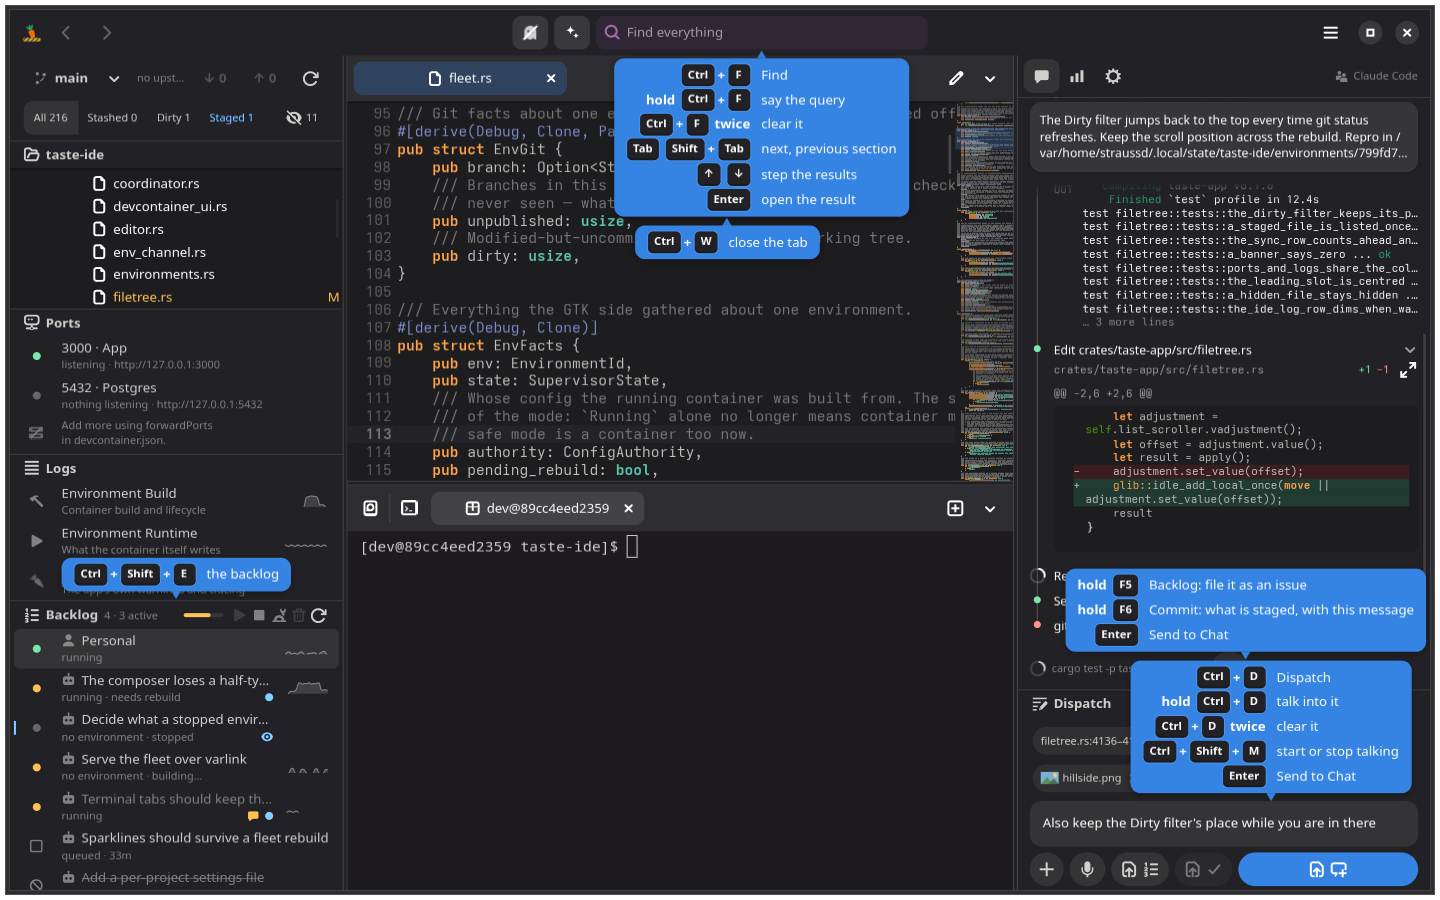
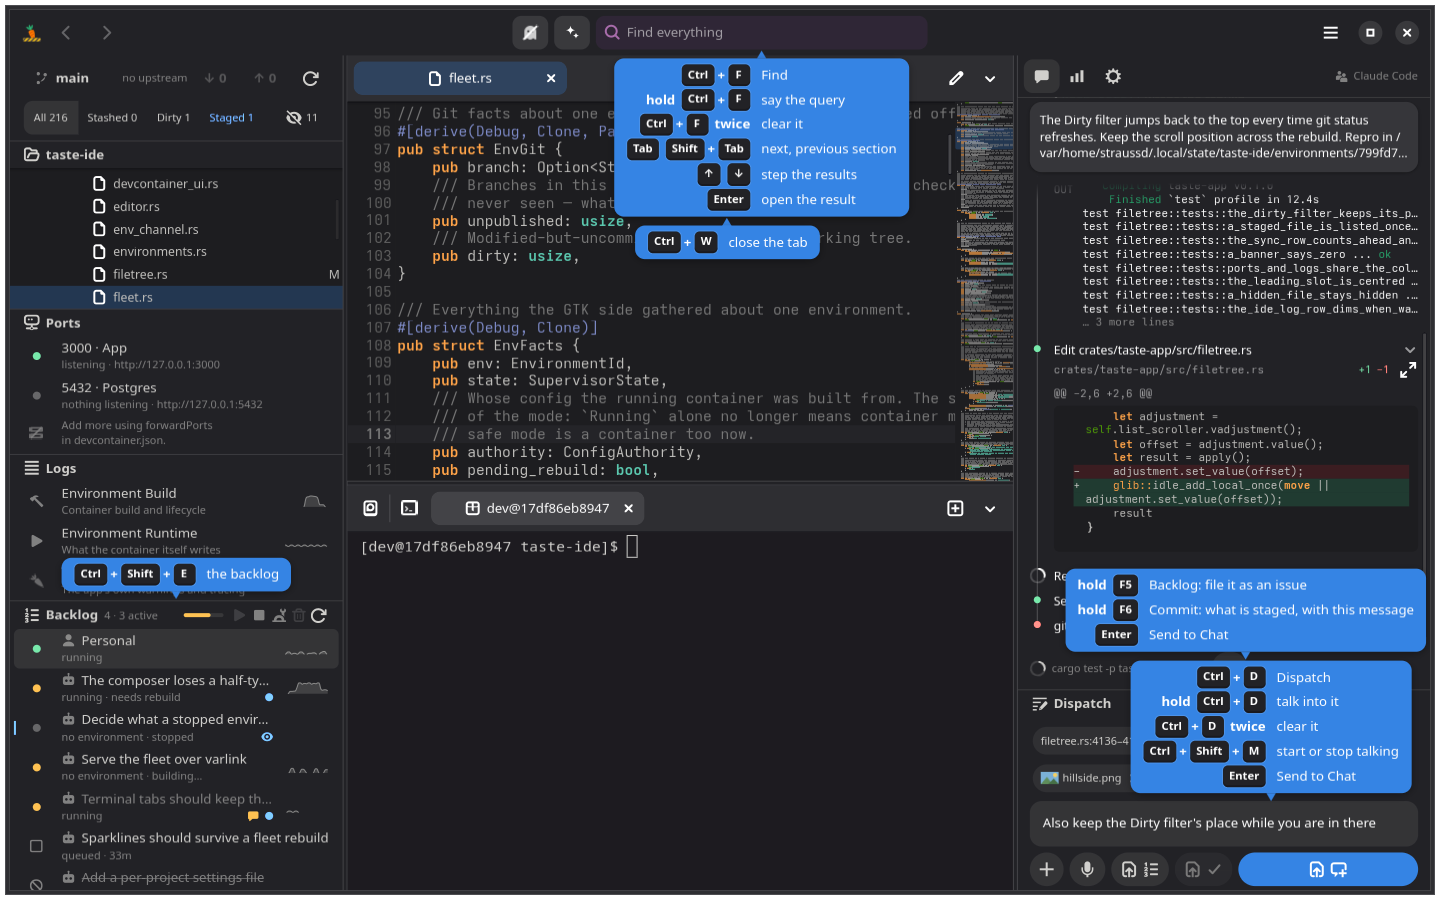
The files listing is smaller, softer, and airier at the same density
David, 2026-09-08: "the files listing should use a smaller typeface,
slightly lower contrast (maybe same color as normal characters in the
editor panel), and wider leading. The final density should be
approximately what it is now, just airier."

So the names are set at 0.92em in the colour the editor draws a plain
identifier in — `#c0bfbc`, measured off the frame, which the terminal
palette already carries as its base white. That is 8.6:1 against the
tree's ground where the panels' own foreground is 10.2:1: a step softer,
because a file listing is a long column of names read by shape and at full
strength it shouts beside the editor it names.

The height the smaller face gives back is spent on leading rather than
pocketed. Measured: 1px either side puts the row pitch back at the 23px it
was, so the column is exactly as long as before with smaller glyphs in
more air. 2px either side made it 25 and the whole listing longer, which
is not "approximately what it is now".

Dark-only, like the panels' own foreground: the light scheme's is already
soft, and the editor's plain text there is a near-black this would muddy.

And the branch button loses its dropdown arrow (David: "remove the
dropdown indicator on the branch. As long as the icon + branch name is
clearly a button, that's enough") — the same argument the section headers
were given when theirs went.

diff --git a/crates/taste-app/src/main.rs b/crates/taste-app/src/main.rs
@@ -783,6 +783,27 @@ fn theme_conditional_css(display: &gtk::gdk::Display) {
         &provider,
         gtk::STYLE_PROVIDER_PRIORITY_APPLICATION + 1,
     );
+    // The file listing's own type. A long column of names is read by
+    // shape, so it is set smaller and softer than the panels around it,
+    // and the height the smaller face gives back is spent on leading
+    // rather than pocketed: the row pitch is what it was, and the names
+    // have more air around them (David, 2026-09-08: "the final density
+    // should be approximately what it is now, just airier").
+    //
+    // The colour is dark-only, like the panels' own: the light scheme's
+    // foreground is already soft, and the editor's plain text there is a
+    // near-black this would only muddy.
+    let tree_dark = format!(
+        ".file-row label {{ color: {}; }}\n",
+        crate::palette::TREE_FG_DARK
+    );
+    // Measured: 0.92em gives back about a pixel of row height, and 1px
+    // either side spends it, so the pitch stays where it was (23px) while
+    // the glyphs inside it are smaller — which is the whole of "the same
+    // density, just airier". 2px either side put the pitch at 25 and made
+    // the column longer than it was.
+    const TREE_TYPE: &str = ".file-row { font-size: 0.92em; \
+                             padding-top: 1px; padding-bottom: 1px; }\n";
     // The panels' softer text (`palette::PANEL_FG_DARK`). Set on each pane's
     // root and inherited, so anything that states no colour of its own
     // takes it and anything that does — an accent, a traffic light, a
@@ -795,7 +816,11 @@ fn theme_conditional_css(display: &gtk::gdk::Display) {
         let dark = style.is_dark();
         let away = if dark { AWAY_DARK } else { AWAY_LIGHT };
         let panels = if dark { panels.as_str() } else { "" };
-        provider.load_from_string(&format!("{away}\n{panels}{}", search_css(dark)));
+        let tree = if dark { tree_dark.as_str() } else { "" };
+        provider.load_from_string(&format!(
+            "{away}\n{panels}{TREE_TYPE}{tree}{}",
+            search_css(dark)
+        ));
     };
     let style = adw::StyleManager::default();
     apply(&style, &provider);

diff --git a/crates/taste-app/src/filetree.rs b/crates/taste-app/src/filetree.rs
@@ -658,10 +658,15 @@ impl FileTree {
         branch_face.append(&git_glyph);
         branch_face.append(&branch_child);
         branch_face.append(&branch_count);
+        // No arrow. The glyph and the branch name already read as a
+        // button, and a disclosure triangle beside them is a second thing
+        // saying the same (David, 2026-09-08: "remove the dropdown
+        // indicator on the branch. As long as the icon + branch name is
+        // clearly a button, that's enough") — the same argument the
+        // section headers were given when theirs went.
         let branch_label = gtk::MenuButton::builder()
             .css_classes(["flat"])
             .direction(gtk::ArrowType::Down)
-            .always_show_arrow(true)
             .child(&branch_face)
             .build();
         let push_button = gtk::Button::builder()
@@ -5252,6 +5257,10 @@ impl FileTree {
         }
         let state = self.state_of(node);
         let row = gtk::Box::new(gtk::Orientation::Horizontal, 6);
+        // The listing's own type: smaller, softer, and with the leading
+        // the smaller face gives back spent on air instead
+        // (`main.rs::theme_conditional_css`).
+        row.add_css_class("file-row");
         // Directories keep the folder glyph; files get their GNOME
         // content-type icon (name-based guess — no IO).
         let icon = if node.is_dir {

diff --git a/crates/taste-app/src/palette.rs b/crates/taste-app/src/palette.rs
@@ -56,6 +56,19 @@ pub const TERMINAL_LIGHT: (&str, &str) = ("#171421", "#ffffff");
 /// rather than pure black, so there is nothing to take the edge off.
 pub const PANEL_FG_DARK: &str = TERMINAL_DARK.0;
 
+/// What the file listing's names are drawn in under the dark scheme: the
+/// colour the editor draws a plain identifier in, measured off the frame
+/// (`#c0bfbc`, which the terminal palette already carries as its base
+/// white).
+///
+/// A step softer than the panels' own foreground — 8.6:1 against the
+/// tree's ground where `PANEL_FG_DARK` is 10.2:1 — because a file listing
+/// is a long column of names read by shape, and at full strength it shouts
+/// beside the editor it names (David, 2026-09-08: "the files listing
+/// should use a smaller typeface, slightly lower contrast (maybe same
+/// color as normal characters in the editor panel), and wider leading").
+pub const TREE_FG_DARK: &str = ANSI_TERMINAL[7];
+
 /// The search's own hue: **purple** (`#9141ac`, libadwaita's purple accent
 /// and the GNOME palette's `purple_3`), which is now the search's alone —
 /// blue is the accent and reads as "chosen", green and amber are two
